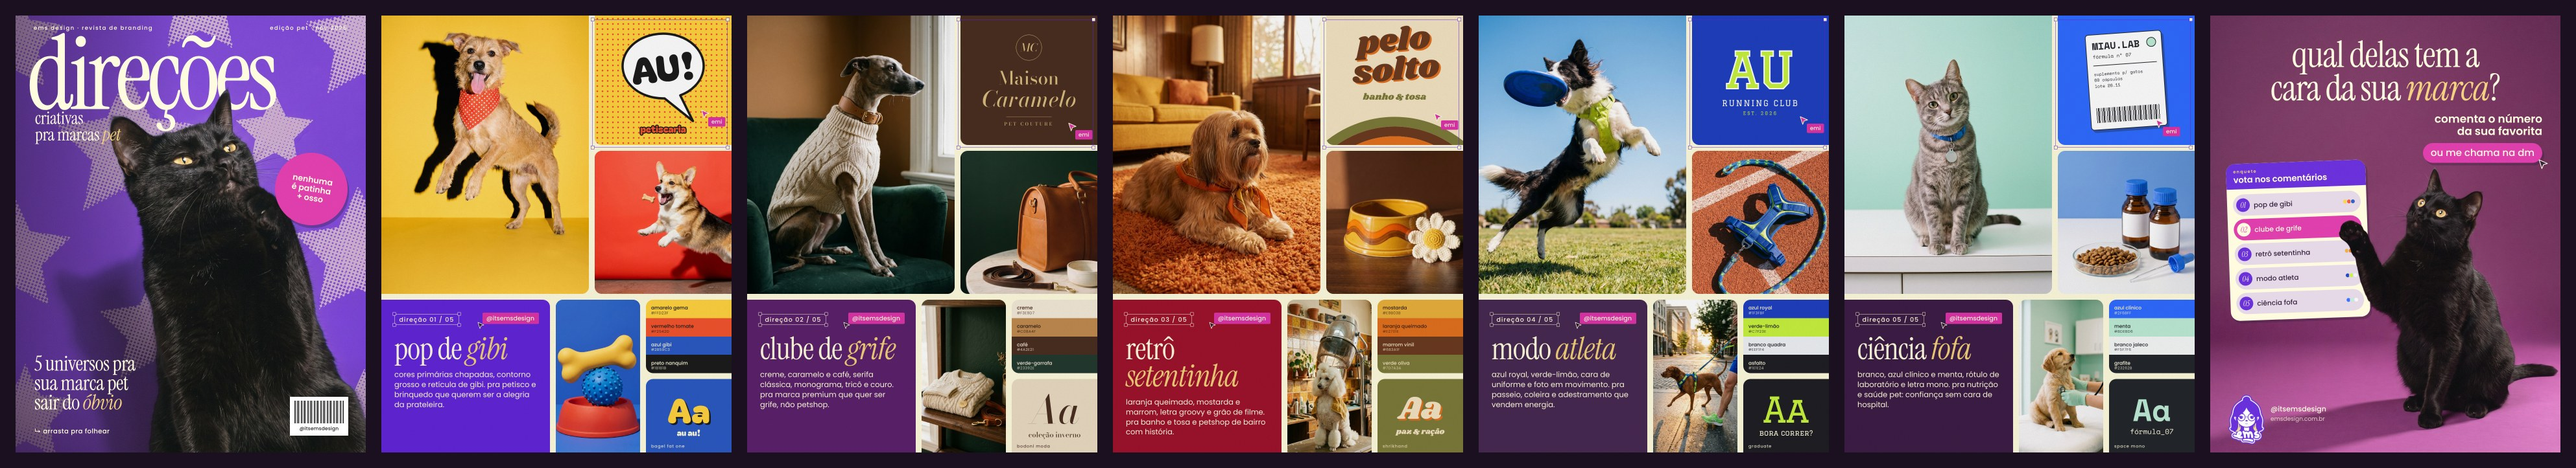
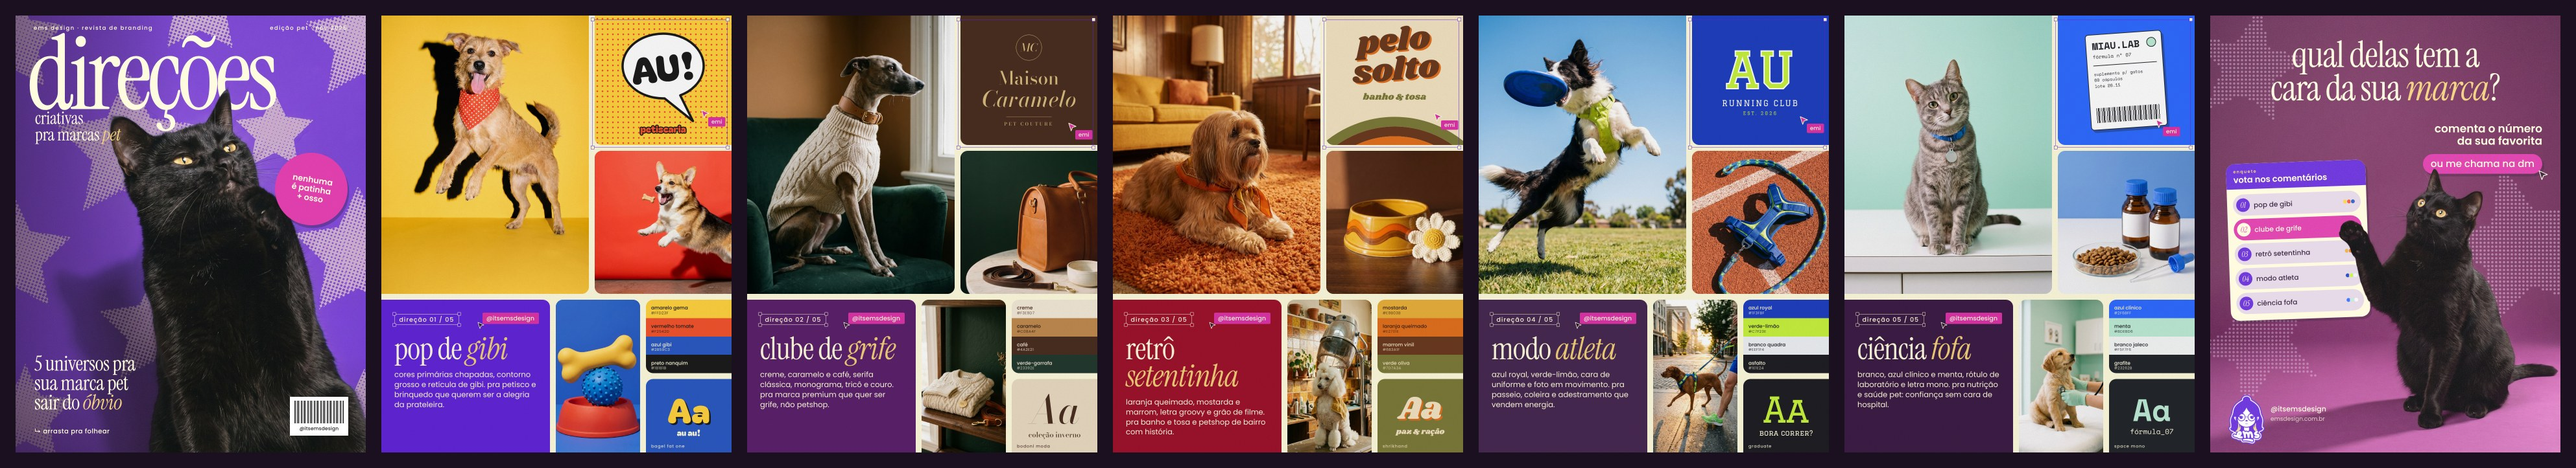
EMS carrossel pet: textura de estrelas em retícula na chamada
- estrelas de pontos iguais na parede, por trás do gato e da enquete
  (o mesmo grafismo da capa), e grão mais forte
- a orelha do gato volta a encostar na pílula da dm, como a Emi preferiu

Claude-Session: https://claude.ai/code/session_01CmCiK9WG5RWJH1hBNUU9U9

Changed region(s): [[0.9366, 0.2434, 0.999, 0.639], [0.8429, 0.6694, 0.9053, 0.8216], [0.8429, 0.0913, 0.9053, 0.213]]

diff --git a/Emi/ems-5-direcoes-pet/projeto/carrossel.html b/Emi/ems-5-direcoes-pet/projeto/carrossel.html
@@ -48,7 +48,7 @@ function selecionar(slide, x, y, w, h, kx, ky) {
 }
 
 // Estrela de 5 pontas em retícula (HalftoneStar): pontos que diminuem do centro para a borda.
-function estrela({ cx, cy, R, passo = 15, cor, opacidade = .45, rot = -18, rmax = 6.2 }) {
+function estrela({ cx, cy, R, passo = 15, cor, opacidade = .45, rot = -18, rmax = 6.2, uniforme = false }) {
   const pts = [];
   for (let i = 0; i < 10; i++) {
     const a = (rot - 90 + i * 36) * Math.PI / 180, r = i % 2 ? R * .45 : R;
@@ -60,7 +60,7 @@ function estrela({ cx, cy, R, passo = 15, cor, opacidade = .45, rot = -18, rmax 
   let dots = '';
   for (let y = -R; y <= R; y += passo) for (let x = -R; x <= R; x += passo) {
     if (!dentro(x, y)) continue;
-    const d = Math.hypot(x, y) / R, r = Math.max(.6, rmax * (1 - d * .95));
+    const d = Math.hypot(x, y) / R, r = uniforme ? rmax : Math.max(.6, rmax * (1 - d * .95));
     dots += `<circle cx="${(x + R).toFixed(1)}" cy="${(y + R).toFixed(1)}" r="${r.toFixed(2)}"/>`;
   }
   const s = el('div', 'estrela');
@@ -162,6 +162,10 @@ function capa() {
 function chamada() {
   const s = el('section', 'slide chamada'); s.dataset.nome = 'lamina-07';
   cheia(s, CHAMADA.foto, W, H);
+  // textura: estrelas em retícula "pintadas" na parede (como as da capa), por trás do gato e da enquete
+  const parede = el('div', 'parede');
+  for (const e of CHAMADA.estrelas) parede.appendChild(estrela({ cor: 'var(--lavanda)', ...e }));
+  s.appendChild(parede);
   s.insertAdjacentHTML('beforeend', `
     <div class="grande">qual delas tem a<br>cara da sua <em>marca</em>?</div>
     <div class="enquete">
@@ -175,7 +179,7 @@ function chamada() {
       <div class="dm">ou me chama na dm${CURSOR}</div></div>
     <img class="selo" src="img/selo-ems.png" alt="selo ems">
     <div class="assina">@itsemsdesign<br><span>emsdesign.com.br</span></div>`);
-  s.appendChild(el('div', 'grain claro'));
+  s.appendChild(el('div', 'grain claro forte'));
   return s;
 }
 

diff --git a/Emi/ems-5-direcoes-pet/projeto/estilo.css b/Emi/ems-5-direcoes-pet/projeto/estilo.css
@@ -140,6 +140,8 @@ img.foto { position: absolute; display: block; }
 /* ---------- chamada: enquete ---------- */
 .chamada { background: var(--plum); }
 .chamada img.recorte { z-index: 9; }
+.chamada .parede { position: absolute; inset: 0; z-index: 3; mix-blend-mode: screen; }
+.grain.claro.forte { opacity: .16; }
 .chamada .grande { position: absolute; left: 0; right: 0; top: 70px; z-index: 8; text-align: center; font: 400 112px/.92 var(--serif); letter-spacing: -.02em; color: var(--ivory); }
 .chamada .grande em { color: var(--manteiga); }
 .chamada .enquete { position: absolute; left: 56px; top: 452px; width: 430px; z-index: 8; background: var(--ivory); border-radius: 28px;
@@ -155,7 +157,7 @@ img.foto { position: absolute; display: block; }
 .chamada .enquete .op.marcada { background: var(--pink); color: var(--ivory); }
 .chamada .enquete .op.marcada .n { background: var(--ivory); color: var(--pink); }
 .chamada .enquete .op.marcada .pts i { border-color: var(--pink); }
-.chamada .direita { position: absolute; right: 56px; top: 300px; z-index: 8; display: flex; flex-direction: column; align-items: flex-end; gap: 18px; text-align: right; }
+.chamada .direita { position: absolute; right: 56px; top: 330px; z-index: 8; display: flex; flex-direction: column; align-items: flex-end; gap: 22px; text-align: right; }
 .chamada .comenta { font: 600 34px/1.12 var(--sans); color: var(--ivory); }
 .chamada .dm { position: relative; z-index: 8; font: 500 30px/1 var(--sans); padding: 15px 24px 16px; border-radius: 999px;
   background: var(--pink); color: var(--ivory); box-shadow: var(--shadow-sticker); }

diff --git a/Emi/ems-5-direcoes-pet/projeto/direcoes.js b/Emi/ems-5-direcoes-pet/projeto/direcoes.js
@@ -118,4 +118,12 @@ const DIRECOES = [
 const CAPA = { foto: { src: 'capa-2', px: .5, py: .5 }, recorte: 'capa-2-gato' };
 
 // Chamada: enquete; o gato (fundo ameixa) levanta a pata até a opção marcada.
-const CHAMADA = { foto: { src: 'cham-2', px: .85, py: .95, zoom: 1.25 }, recorte: 'cham-2-gato', marcada: 1 };
+const CHAMADA = {
+  foto: { src: 'cham-2', px: .85, py: .95, zoom: 1.25 }, recorte: 'cham-2-gato', marcada: 1,
+  // estrelas em retícula na parede (textura), mesmo grafismo das estrelas da parede da capa
+  estrelas: [
+    { cx: 960, cy: 720, R: 270, passo: 12, rmax: 3.6, uniforme: true, opacidade: .55, rot: -14 },
+    { cx: 120, cy: 160, R: 190, passo: 12, rmax: 3.6, uniforme: true, opacidade: .5, rot: 10 },
+    { cx: 150, cy: 1010, R: 210, passo: 12, rmax: 3.6, uniforme: true, opacidade: .45, rot: -24 },
+  ],
+};

diff --git a/Emi/ems-5-direcoes-pet/README.md b/Emi/ems-5-direcoes-pet/README.md
@@ -43,7 +43,7 @@ Respiro `ivory` de 18px, raio 22, sangria de 30px em quem encosta na borda. Coor
 | 4 | 03 retrô *setentinha* | `wine` | lhasa no tapete · pote e margarida · poodle no secador | pelo solto · Shrikhand |
 | 5 | 04 modo *atleta* | `creative-purple` | border collie e frisbee · peitoral na pista · corredor e vizsla | AU running club · Graduate |
 | 6 | 05 ciência *fofa* | `ameixa` | gato tigrado · frascos e ração · filhote no veterinário | miau.lab · Space Mono |
-| 7 | Chamada em enquete: "qual delas tem a cara da sua *marca*?" centralizado, cartão de enquete à esquerda com o gato apertando uma opção com a pata (recorte por cima do cartão), "comenta o número da sua favorita" e dm à direita, assinatura embaixo | fundo ameixa da foto | cham-2 (+ recorte) | — |
+| 7 | Chamada em enquete: "qual delas tem a cara da sua *marca*?" centralizado, cartão de enquete à esquerda com o gato apertando uma opção com a pata (recorte por cima do cartão), "comenta o número da sua favorita" e dm à direita (a orelha do gato encosta na pílula), assinatura embaixo; textura de estrelas em retícula na parede, como na capa, e grão mais forte | fundo ameixa da foto | cham-2 (+ recorte) | — |
 
 Legenda pronta em `legenda.md`.
 

diff --git a/.claude/skills/artes-clientes/clientes/ems.md b/.claude/skills/artes-clientes/clientes/ems.md
@@ -38,6 +38,8 @@
   - "qual delas tem a cara da sua *marca*?" e cartão de enquete com as 5 opções.
   - O gato levanta a pata e "aperta" uma opção (recorte por cima do cartão).
   - **Composição equilibrada**: título centralizado em cima, cartão à esquerda, "comenta o número da sua favorita" e a dm à direita acima do gato, assinatura embaixo à esquerda. A Emi reprovou "texto empilhado de um lado só".
+  - Textura: estrelas em retícula de pontos iguais "pintadas" na parede (o mesmo grafismo da parede da capa), por trás do gato e da enquete, e grão mais forte. A Emi achou que faltava textura no fundo liso.
+  - A orelha do gato encostando na pílula da dm ficou "mais bonito": deixar elementos se tocarem dá vida à composição.
   - A v4, com texto + gato + pílula, foi reprovada: "muito xoxo, sem graça".
 - **Regra da Emi: "os posts precisam ser diferentes, senão eu postava a mesma coisa todo dia".**
   - Cada post do Instagram da EMS tem diagramação própria.
